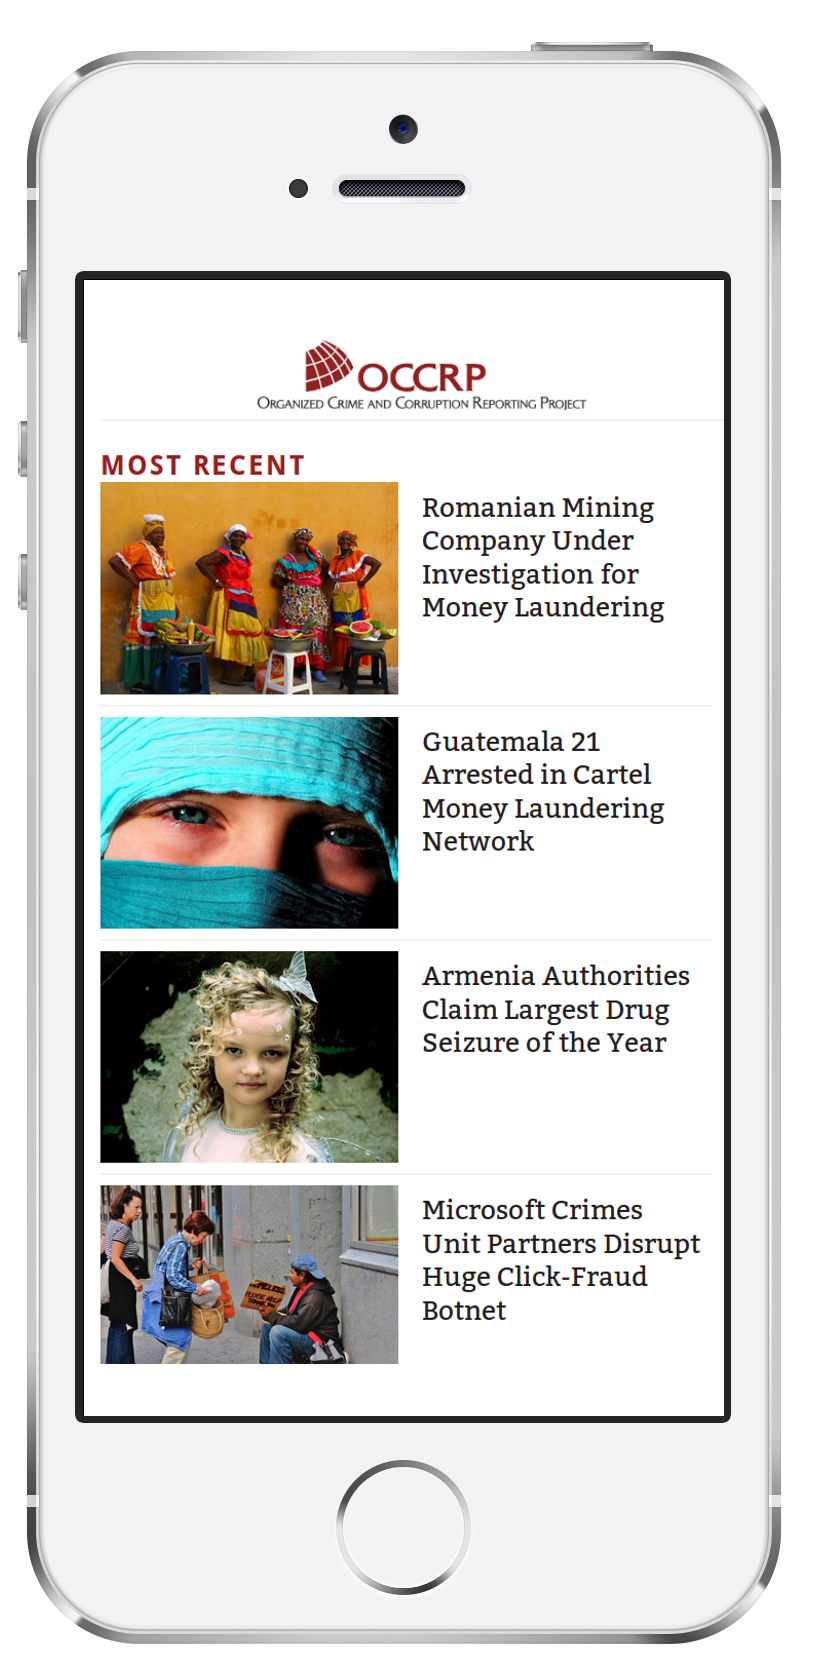
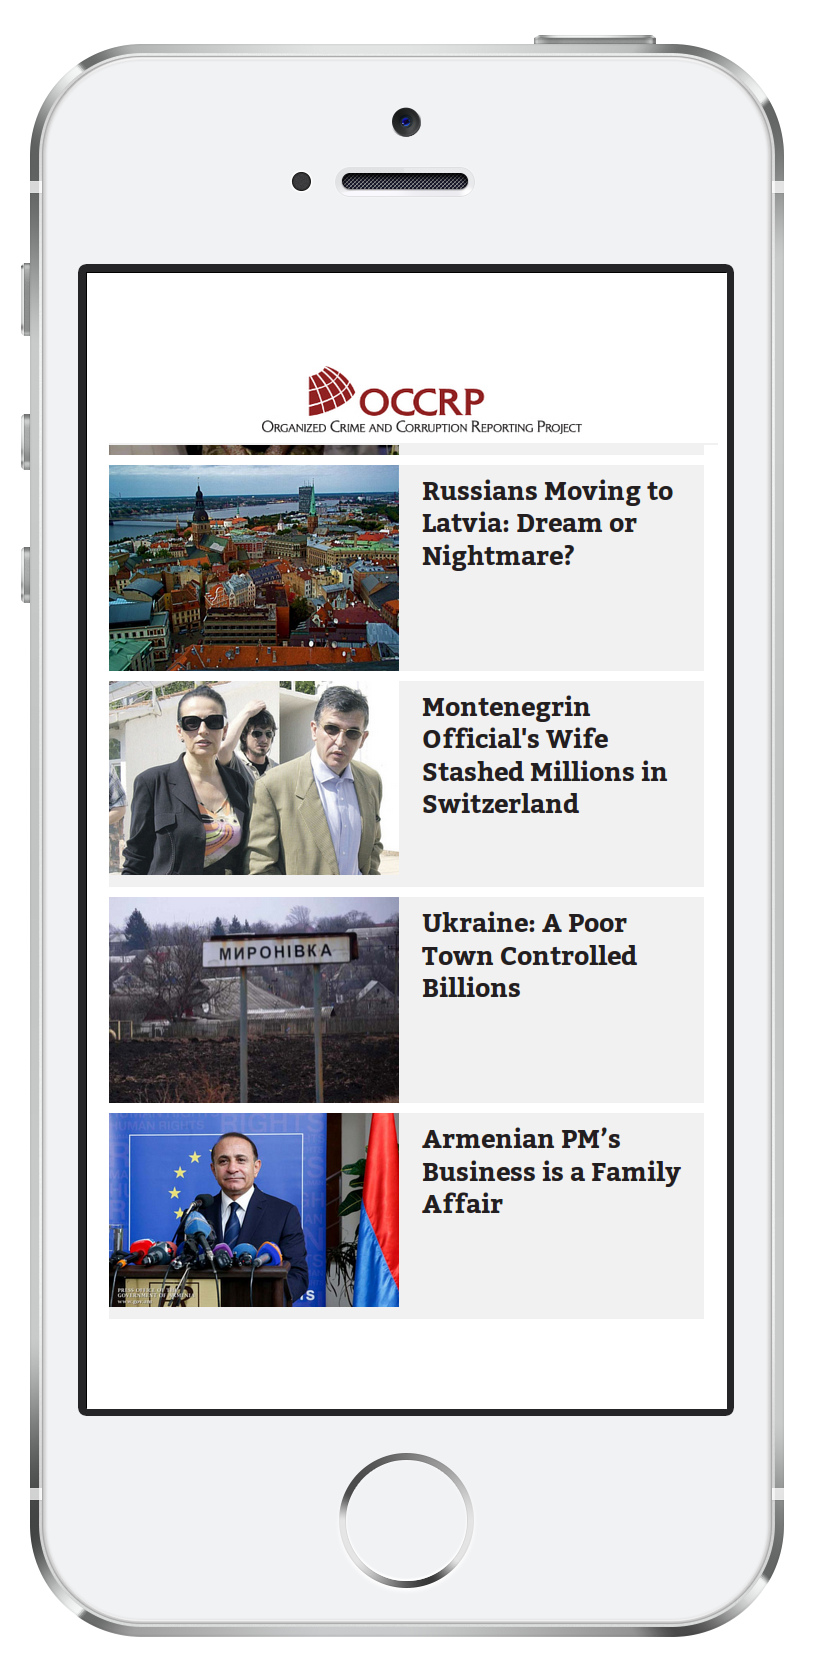
OCCRP images replaced

diff --git a/site/components/pages/work/occrp/occrp.html b/site/components/pages/work/occrp/occrp.html
@@ -156,12 +156,12 @@
 
   <picture>
     <!--[if IE 9]><video style="display: none;"><![endif]-->
-    <source media="(min-width: 1600px)" srcset="/assets/images/occrp-frontpage-top-mobile_desktop.png, /assets/images/occrp-frontpage-top-mobile_desktop2x.png 2x">
-    <source media="(min-width: 1199px)" srcset="/assets/images/occrp-frontpage-top-mobile_laptop.png, /assets/images/occrp-frontpage-top-mobile_laptop2x.png 2x">
-    <source media="(min-width: 600px)" srcset="/assets/images/occrp-frontpage-top-mobile_tablet.png, /assets/images/occrp-frontpage-top-mobile_tablet2x.png 2x">
-    <source srcset="/assets/images/occrp-frontpage-top-mobile_mobile.png, /assets/images/occrp-frontpage-top-mobile_mobile2x.png 2x">
+    <source media="(min-width: 1600px)" srcset="/assets/images/occrp-frontpage-mobile_desktop.png, /assets/images/occrp-frontpage-mobile_desktop2x.png 2x">
+    <source media="(min-width: 1199px)" srcset="/assets/images/occrp-frontpage-mobile_laptop.png, /assets/images/occrp-frontpage-mobile_laptop2x.png 2x">
+    <source media="(min-width: 600px)" srcset="/assets/images/occrp-frontpage-mobile_tablet.png, /assets/images/occrp-frontpage-mobile_tablet2x.png 2x">
+    <source srcset="/assets/images/occrp-frontpage-mobile_mobile.png, /assets/images/occrp-frontpage-mobile_mobile2x.png 2x">
     <!--[if IE 9]></video><![endif]-->
-    <img srcset="/assets/images/occrp-frontpage-top-mobile_desktop.png" alt="The top of OCCRP frontpage on mobile">
+    <img srcset="/assets/images/occrp-frontpage-mobile_desktop.png" alt="The top of OCCRP frontpage on mobile">
   </picture>
 
   <figcaption class="figcaption figcaption--from-title">
@@ -210,12 +210,12 @@
 
   <picture>
     <!--[if IE 9]><video style="display: none;"><![endif]-->
-    <source media="(min-width: 1600px)" srcset="/assets/images/occrp-frontpage-mobile_desktop.png, /assets/images/occrp-frontpage-mobile_desktop2x.png 2x">
-    <source media="(min-width: 1199px)" srcset="/assets/images/occrp-frontpage-mobile_laptop.png, /assets/images/occrp-frontpage-mobile_laptop2x.png 2x">
-    <source media="(min-width: 600px)" srcset="/assets/images/occrp-frontpage-mobile_tablet.png, /assets/images/occrp-frontpage-mobile_tablet2x.png 2x">
-    <source srcset="/assets/images/occrp-frontpage-mobile_mobile.png, /assets/images/occrp-frontpage-mobile_mobile2x.png 2x">
+    <source media="(min-width: 1600px)" srcset="/assets/images/occrp-frontpage-2-mobile_desktop.png, /assets/images/occrp-frontpage-2-mobile_desktop2x.png 2x">
+    <source media="(min-width: 1199px)" srcset="/assets/images/occrp-frontpage-2-mobile_laptop.png, /assets/images/occrp-frontpage-2-mobile_laptop2x.png 2x">
+    <source media="(min-width: 600px)" srcset="/assets/images/occrp-frontpage-2-mobile_tablet.png, /assets/images/occrp-frontpage-2-mobile_tablet2x.png 2x">
+    <source srcset="/assets/images/occrp-frontpage-2-mobile_mobile.png, /assets/images/occrp-frontpage-2-mobile_mobile2x.png 2x">
     <!--[if IE 9]></video><![endif]-->
-    <img srcset="/assets/images/occrp-frontpage-mobile_desktop.png" alt="The OCCRP frontpage on mobile">
+    <img srcset="/assets/images/occrp-frontpage-2-mobile_desktop.png" alt="The OCCRP frontpage on mobile">
   </picture>
 
   <figcaption class="figcaption figcaption--from-title">
@@ -323,12 +323,12 @@
 
   <picture>
     <!--[if IE 9]><video style="display: none;"><![endif]-->
-    <source media="(min-width: 1600px)" srcset="/assets/images/occrp-archive-tablet_desktop.png, /assets/images/occrp-archive-tablet_desktop2x.png 2x">
-    <source media="(min-width: 1199px)" srcset="/assets/images/occrp-archive-tablet_laptop.png, /assets/images/occrp-archive-tablet_laptop2x.png 2x">
-    <source media="(min-width: 600px)" srcset="/assets/images/occrp-archive-tablet_tablet.png, /assets/images/occrp-archive-tablet_tablet2x.png 2x">
-    <source srcset="/assets/images/occrp-archive-tablet_mobile.png, /assets/images/occrp-archive-tablet_mobile2x.png 2x">
+    <source media="(min-width: 1600px)" srcset="/assets/images/occrp-frontpage-tablet_desktop.png, /assets/images/occrp-frontpage-tablet_desktop2x.png 2x">
+    <source media="(min-width: 1199px)" srcset="/assets/images/occrp-frontpage-tablet_laptop.png, /assets/images/occrp-frontpage-tablet_laptop2x.png 2x">
+    <source media="(min-width: 600px)" srcset="/assets/images/occrp-frontpage-tablet_tablet.png, /assets/images/occrp-frontpage-tablet_tablet2x.png 2x">
+    <source srcset="/assets/images/occrp-frontpage-tablet_mobile.png, /assets/images/occrp-frontpage-tablet_mobile2x.png 2x">
     <!--[if IE 9]></video><![endif]-->
-    <img srcset="/assets/images/occrp-archive-tablet_desktop.png" alt="The OCCRP archive page on tablet">
+    <img srcset="/assets/images/occrp-frontpage-tablet_desktop.png" alt="The OCCRP archive page on tablet">
   </picture>
 
   <figcaption class="figcaption figcaption--from-title">

diff --git a/styleguide/components/pages/framework/design/colors/colors.html b/styleguide/components/pages/framework/design/colors/colors.html
@@ -179,6 +179,11 @@ All color pairs have a contrast ratio set for perfect readability using <a href=
       </div>
     
       <div class="item">
+        <span class="green placeholder"></span>
+        <span class="name">green</span>
+      </div>
+    
+      <div class="item">
         <span class="gray placeholder"></span>
         <span class="name">gray</span>
       </div>
@@ -204,6 +209,13 @@ All color pairs have a contrast ratio set for perfect readability using <a href=
       <aside class="aside">
         <h3 class="aside__title">gray-on-blue</h3>
         <div class="box gray-on-blue">
+          Colors don't exist alone yet in pairs, like black on white. All color pairs have a contrast ratio set for perfect readability.
+        </div>
+      </aside>
+    
+      <aside class="aside">
+        <h3 class="aside__title">green-on-blue</h3>
+        <div class="box green-on-blue">
           Colors don't exist alone yet in pairs, like black on white. All color pairs have a contrast ratio set for perfect readability.
         </div>
       </aside>
@@ -439,6 +451,10 @@ Templates</div>
 <li class="file menu-item-work">
 <div>
 <a class="link" title="Work" href="/styleguide/project/work"><span data-hover="Work">Work</span></a>
+</li>
+<li class="file menu-item-works">
+<div>
+<a class="link" title="Works" href="/styleguide/project/works"><span data-hover="Works">Works</span></a>
 </li>
 </ul>
 </li>

diff --git a/styleguide/components/project/templates/default/default.html b/styleguide/components/project/templates/default/default.html
@@ -2,12 +2,12 @@
 
 
 <!doctype html>
-<html lang="en" class="styleguide styleguide-work ">
+<html lang="en" class="styleguide styleguide-works ">
   <head>
     <meta charset="utf-8" />
     <meta name="viewport" content="width=device-width, initial-scale=1, maximum-scale=1">
 
-    <title>Work &mdash; Styleguide</title>
+    <title>Works &mdash; Styleguide</title>
 
     <script src="//use.typekit.net/wrb3hlx.js"></script>
     <script>try{Typekit.load();}catch(e){}</script>
@@ -79,14 +79,14 @@
   
     <span class="long-dash"></span>
 
-    <span class="title__subtitle">Work</span>
+    <span class="title__subtitle">Works</span>
   
 </header>
 
 
 
 <section class="description-and-example">
-  <h3>Work</h3>
+  <h3>Works</h3>
 
   
 
@@ -381,6 +381,10 @@ Templates</div>
 <li class="file menu-item-work">
 <div>
 <a class="link" title="Work" href="/styleguide/project/work"><span data-hover="Work">Work</span></a>
+</li>
+<li class="file menu-item-works">
+<div>
+<a class="link" title="Works" href="/styleguide/project/works"><span data-hover="Works">Works</span></a>
 </li>
 </ul>
 </li>

diff --git a/styleguide/components/pages/framework/design/typography/text-style/text-style.html b/styleguide/components/pages/framework/design/typography/text-style/text-style.html
@@ -230,44 +230,6 @@ Everything text uses this <code>text-style</code> mixin. We don&#39;t set <code>
       </div>
     </aside>
   
-    
-    <aside class="aside">
-      <h3 class="aside__title">Title</h3>
-
-      <div class="box text-style--title">
-        
-
-        
-
-        
-
-        
-          A page or section title. Bold.
-        
-
-        
-      </div>
-    </aside>
-  
-    
-    <aside class="aside">
-      <h3 class="aside__title">Menu</h3>
-
-      <div class="box text-style--menu">
-        
-
-        
-
-        
-
-        
-
-        
-          Menu looks different yet non-intrusive.
-        
-      </div>
-    </aside>
-  
 
 
   </article>
@@ -499,6 +461,10 @@ Templates</div>
 <li class="file menu-item-work">
 <div>
 <a class="link" title="Work" href="/styleguide/project/work"><span data-hover="Work">Work</span></a>
+</li>
+<li class="file menu-item-works">
+<div>
+<a class="link" title="Works" href="/styleguide/project/works"><span data-hover="Works">Works</span></a>
 </li>
 </ul>
 </li>

diff --git a/styleguide/components/pages/project/slider/slider.html b/styleguide/components/pages/project/slider/slider.html
@@ -178,7 +178,7 @@ Navigation is supported by bullets, click on image and swipe on touch-screens.</
       <div class="slide">
         
           
-        
+          
           <figure >
   
 
@@ -241,7 +241,7 @@ Navigation is supported by bullets, click on image and swipe on touch-screens.</
       <div class="slide">
         
           
-        
+          
           <figure >
   
 
@@ -304,7 +304,7 @@ Navigation is supported by bullets, click on image and swipe on touch-screens.</
       <div class="slide">
         
           
-        
+          
           <figure >
   
 
@@ -621,6 +621,10 @@ Templates</div>
 <li class="file menu-item-work">
 <div>
 <a class="link" title="Work" href="/styleguide/project/work"><span data-hover="Work">Work</span></a>
+</li>
+<li class="file menu-item-works">
+<div>
+<a class="link" title="Works" href="/styleguide/project/works"><span data-hover="Works">Works</span></a>
 </li>
 </ul>
 </li>

diff --git a/styleguide/components/pages/project/thumb/thumb.html b/styleguide/components/pages/project/thumb/thumb.html
@@ -226,6 +226,19 @@
   </a>
 </figure>
 
+
+  <aside class="thumb__services">
+  <h3>Services</h3>
+
+  <ul>
+    
+      <li>Front-end</li>
+    
+      <li>Wordpress</li>
+    
+  </ul>
+</aside>
+
 </article>
 
   </aside>
@@ -459,6 +472,10 @@ Templates</div>
 <li class="file menu-item-work">
 <div>
 <a class="link" title="Work" href="/styleguide/project/work"><span data-hover="Work">Work</span></a>
+</li>
+<li class="file menu-item-works">
+<div>
+<a class="link" title="Works" href="/styleguide/project/works"><span data-hover="Works">Works</span></a>
 </li>
 </ul>
 </li>

diff --git a/styleguide/components/project/templates/head/head.html b/styleguide/components/project/templates/head/head.html
@@ -2,12 +2,12 @@
 
 
 <!doctype html>
-<html lang="en" class="styleguide styleguide-work ">
+<html lang="en" class="styleguide styleguide-works ">
   <head>
     <meta charset="utf-8" />
     <meta name="viewport" content="width=device-width, initial-scale=1, maximum-scale=1">
 
-    <title>Work &mdash; Styleguide</title>
+    <title>Works &mdash; Styleguide</title>
 
     <script src="//use.typekit.net/wrb3hlx.js"></script>
     <script>try{Typekit.load();}catch(e){}</script>

diff --git a/styleguide/components/pages/framework/behavior/flip/flip.html b/styleguide/components/pages/framework/behavior/flip/flip.html
@@ -401,6 +401,10 @@ Templates</div>
 <div>
 <a class="link" title="Work" href="/styleguide/project/work"><span data-hover="Work">Work</span></a>
 </li>
+<li class="file menu-item-works">
+<div>
+<a class="link" title="Works" href="/styleguide/project/works"><span data-hover="Works">Works</span></a>
+</li>
 </ul>
 </li>
 </ul>

diff --git a/styleguide/components/pages/framework/behavior/page-transition/page-transition.html b/styleguide/components/pages/framework/behavior/page-transition/page-transition.html
@@ -411,6 +411,10 @@ Templates</div>
 <div>
 <a class="link" title="Work" href="/styleguide/project/work"><span data-hover="Work">Work</span></a>
 </li>
+<li class="file menu-item-works">
+<div>
+<a class="link" title="Works" href="/styleguide/project/works"><span data-hover="Works">Works</span></a>
+</li>
 </ul>
 </li>
 </ul>

diff --git a/styleguide/components/pages/framework/behavior/transition/transition.html b/styleguide/components/pages/framework/behavior/transition/transition.html
@@ -404,6 +404,10 @@ Templates</div>
 <div>
 <a class="link" title="Work" href="/styleguide/project/work"><span data-hover="Work">Work</span></a>
 </li>
+<li class="file menu-item-works">
+<div>
+<a class="link" title="Works" href="/styleguide/project/works"><span data-hover="Works">Works</span></a>
+</li>
 </ul>
 </li>
 </ul>

diff --git a/styleguide/components/pages/framework/design/decorations/arrow/arrow.html b/styleguide/components/pages/framework/design/decorations/arrow/arrow.html
@@ -459,6 +459,10 @@ Templates</div>
 <div>
 <a class="link" title="Work" href="/styleguide/project/work"><span data-hover="Work">Work</span></a>
 </li>
+<li class="file menu-item-works">
+<div>
+<a class="link" title="Works" href="/styleguide/project/works"><span data-hover="Works">Works</span></a>
+</li>
 </ul>
 </li>
 </ul>

diff --git a/styleguide/components/pages/framework/design/decorations/color-overlay/color-overlay.html b/styleguide/components/pages/framework/design/decorations/color-overlay/color-overlay.html
@@ -630,6 +630,10 @@ Templates</div>
 <div>
 <a class="link" title="Work" href="/styleguide/project/work"><span data-hover="Work">Work</span></a>
 </li>
+<li class="file menu-item-works">
+<div>
+<a class="link" title="Works" href="/styleguide/project/works"><span data-hover="Works">Works</span></a>
+</li>
 </ul>
 </li>
 </ul>
